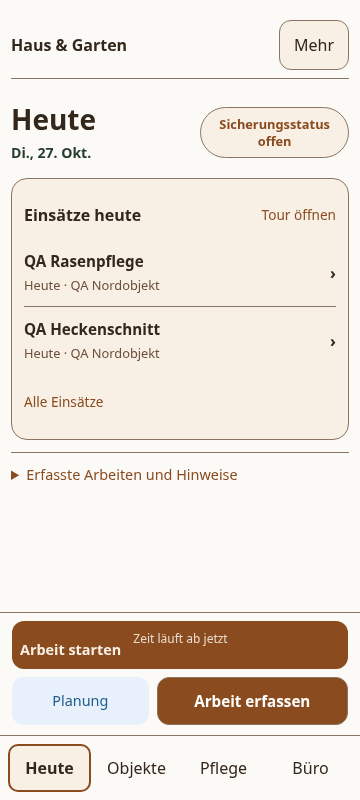
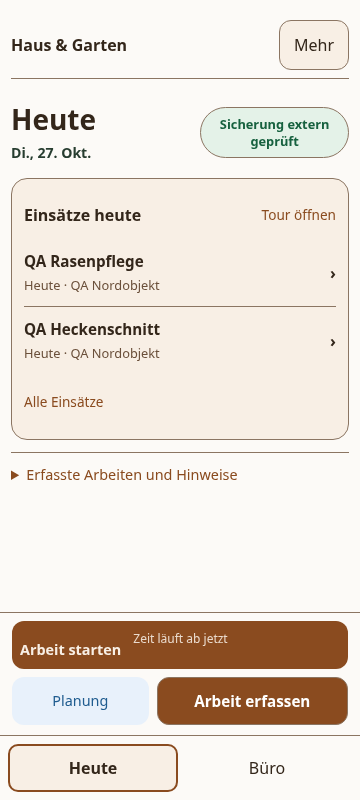
Move Objects and Care into More and preserve tested navigation paths

diff --git a/android/app/src/main/assets/revier-solo-ui.js b/android/app/src/main/assets/revier-solo-ui.js
@@ -2,7 +2,7 @@
 (()=>{
  'use strict';
  const $=id=>document.getElementById(id),E=value=>String(value==null?'':value).replace(/[&<>"']/g,c=>({'&':'&amp;','<':'&lt;','>':'&gt;','"':'&quot;',"'":'&#39;'}[c]));
- const ROOTS=['home','revier-properties','revier-care','revier-office'];
+ const ROOTS=['home','revier-office'];
  const DRAFT_KEY='hausgarten.revier.editor.v1';
  const statuses={planned:'Geplant',scheduled:'Geplant',due:'Fällig',open:'Offen',new:'Neu',inspection_planned:'Besichtigung geplant',offered:'Angebot vorhanden',declined:'Abgelehnt',closed:'Abgeschlossen',in_progress:'In Arbeit',completed:'Erledigt',cancelled:'Abgesagt',partial:'Teilweise erledigt',accepted:'Angenommen',rejected:'Abgelehnt',ready:'Einsatzbereit',maintenance:'Wartung',defective:'Defekt',active:'Aktiv',paused:'Pausiert',receive:'Zugang',consume:'Verbrauch',adjust:'Bestandskorrektur',reversal:'Gegenbuchung'};
  const detailIds={property:'revier-property-detail',inquiry:'revier-inquiry-detail',care:'revier-care-detail',visit:'revier-visit-detail',material:'revier-material-detail',equipment:'revier-equipment-detail'};
@@ -30,8 +30,8 @@
  function header(title){return '<div class="page-head">'+button('Zurück','data-revier-back aria-label="Eine Ansicht zurück"')+'<h2 tabindex="-1">'+E(title)+'</h2></div>';}
  function page(id,title){const node=document.createElement('section');node.id=id;node.className='page revier-page';node.setAttribute('aria-label',title);node.innerHTML=header(title)+'<p class="revier-state" role="status" aria-live="polite"></p><p class="revier-error" role="alert"></p><div class="revier-content"></div>';document.querySelector('main.app').append(node);return node;}
  function status(id,message,error=''){const page=$(id);if(!page)return;const state=page.querySelector('.revier-state'),alert=page.querySelector('.revier-error');if(state)state.textContent=message||'';if(alert)alert.textContent=error||'';}
- function rootFor(id){if(id==='home'||id==='work-entry'||id==='worklog-detail')return 'home';if(id==='revier-editor')return state.editor?.root||state.contextRoot;if(id==='customers'||id==='customer-edit'||id==='customer-profile-page'||id.startsWith('revier-property'))return 'revier-properties';if(id.startsWith('revier-care')||id.startsWith('revier-visit')||id==='revier-tour')return 'revier-care';return 'revier-office';}
- function navState(){document.querySelectorAll('.bottom .nav').forEach(b=>{const active=b.dataset.open===rootFor(currentPage);b.classList.toggle('active',active);if(active)b.setAttribute('aria-current','page');else b.removeAttribute('aria-current');});}
+ function rootFor(id){if(id==='home'||id==='work-entry'||id==='worklog-detail')return 'home';if(id==='revier-editor')return state.editor?.root||state.contextRoot;if(id==='revier-properties'||id==='customers'||id==='customer-edit'||id==='customer-profile-page'||id.startsWith('revier-property'))return 'revier-properties';if(id.startsWith('revier-care')||id.startsWith('revier-visit')||id==='revier-tour')return 'revier-care';return 'revier-office';}
+ function navState(){const root=currentPage==='more-page'?'more-page':rootFor(currentPage);document.querySelectorAll('.bottom .nav').forEach(b=>{const active=b.dataset.open===root;b.classList.toggle('active',active);if(active)b.setAttribute('aria-current','page');else b.removeAttribute('aria-current');});const menu=document.querySelector('.revier-globalbar [data-open=more-page]');if(menu){if(!ROOTS.includes(root))menu.setAttribute('aria-current','page');else menu.removeAttribute('aria-current');}}
  function navigate(id,remember=true){window.openPage(id,remember);}
  function focusHeading(id){requestAnimationFrame(()=>{$(id)?.querySelector('.page-head h2')?.focus({preventScroll:true});});}
  function detailList(entries){return '<dl class="revier-detail">'+entries.filter(([,value])=>value!==undefined&&value!==null&&String(value)!=='').map(([label,value])=>'<dt>'+E(label)+'</dt><dd>'+E(value)+'</dd>').join('')+'</dl>';}
@@ -209,7 +209,7 @@
  function renderRoute(){navState();const name=Object.keys(lists).find(key=>lists[key].page===currentPage);if(name){showList(name);return;}const kind=Object.keys(detailIds).find(key=>detailIds[key]===currentPage);if(kind){showDetail(kind);return;}if(currentPage==='revier-office')office();if(currentPage==='revier-tour')showTour();if(currentPage==='revier-search')searchPage();if(currentPage==='home')refreshToday();}
  function init(){
   if(!document.body.dataset.fieldReady||!window.OfferUI||!window.HGNavigation||!$('more-page')){setTimeout(init,80);return;}
-  document.body.classList.add('revier-solo');const nav=document.querySelector('.bottom-inner');nav.innerHTML=[['home','Heute'],['revier-properties','Objekte'],['revier-care','Pflege'],['revier-office','Büro']].map(([id,label])=>'<button type="button" class="nav" data-open="'+id+'">'+label+'</button>').join('');
+  document.body.classList.add('revier-solo');const nav=document.querySelector('.bottom-inner');nav.innerHTML=[['home','Heute'],['revier-office','Büro']].map(([id,label])=>'<button type="button" class="nav" data-open="'+id+'">'+label+'</button>').join('');
   const globalbar=document.createElement('div');globalbar.className='revier-globalbar';globalbar.innerHTML='<span>Haus & Garten</span>'+button('Mehr','data-open="more-page" aria-label="Mehr: alle Funktionen und Einstellungen"');document.querySelector('main.app').prepend(globalbar);
   const globalStatus=document.createElement('p');globalStatus.id='revier-global-status';globalStatus.className='sr-only';globalStatus.setAttribute('role','status');globalStatus.setAttribute('aria-live','polite');globalbar.after(globalStatus);
   for(const config of Object.values(lists))page(config.page,config.label);page('revier-office','Büro');page('revier-tour','Tagestour');page('revier-search','Lokale Suche');page('revier-editor','Eintrag');for(const [kind,id]of Object.entries(detailIds))page(id,{property:'Objektakte',inquiry:'Anfrage',care:'Pflegeplan',visit:'Einsatzdetails',material:'Material',equipment:'Gerät'}[kind]);

diff --git a/android/app/src/main/assets/workflow-ui.js b/android/app/src/main/assets/workflow-ui.js
@@ -36,13 +36,13 @@
    if(button.hasAttribute('data-global-search')){if(button.parentElement!==nav)nav.prepend(button);continue;}
    if(destination==='sync-page'){button.remove();continue;}
    if(button.hasAttribute('data-open-trash')){if(tools)tools.append(button);continue;}
-   const group=['planning-page','worklogs','orders','weeks'].includes(destination)?'work':['invoices','billing-page','offers'].includes(destination)?'billing':destination==='photos'||button.hasAttribute('data-open-garden-menu')?'media':'data';
+   const group=['revier-properties','revier-care','revier-tour','revier-materials','revier-equipment','revier-search','planning-page','worklogs','orders','weeks'].includes(destination)?'work':['revier-office','invoices','billing-page','offers'].includes(destination)?'billing':destination==='photos'||button.hasAttribute('data-open-garden-menu')?'media':'data';
    const target=nav.querySelector('[data-more-group="'+group+'"]');if(button.parentElement!==target)target.append(button);
    if(destination==='billing-page'){button.querySelector('strong').textContent='Abrechnung vorbereiten';button.querySelector('small').textContent='Arbeiten auswählen · Rechnung erstellen';}
   }
   // Components may finish at different times. Preserve the reviewed menu order
   // without replacing buttons/listeners or retriggering the observer forever.
-  const order=['settings-page','status-page','trash','planning-page','worklogs','orders','weeks','offers','billing-page','invoices','photos','garden'];
+  const order=['settings-page','status-page','trash','revier-properties','revier-care','planning-page','revier-tour','worklogs','orders','weeks','revier-materials','revier-equipment','revier-search','revier-office','offers','billing-page','invoices','photos','garden'];
   const rank=button=>{const key=button.dataset.open||button.dataset.moreDestination||(button.hasAttribute('data-open-garden-menu')?'garden':'');const i=order.indexOf(key);return i<0?order.length:i;};
   for(const group of nav.querySelectorAll('[data-more-group]')){
    const buttons=[...group.querySelectorAll(':scope>button')].sort((a,b)=>rank(a)-rank(b));let previous=group.querySelector('h3');

diff --git a/android/app/src/main/assets/revier-solo-ui.css b/android/app/src/main/assets/revier-solo-ui.css
@@ -19,7 +19,7 @@ body.revier-solo{
 .revier-solo .card{background:#F8EFE5;border-color:#8B7562}
 .revier-solo input,.revier-solo select,.revier-solo textarea{color:#33261A;background:#FCFAF7;border:1px solid #8B7562;max-width:100%;min-width:0}
 .revier-solo .bottom{background:#FCFAF7;border-color:#8B7562;padding:8px 8px max(8px,env(safe-area-inset-bottom));backdrop-filter:none}
-body.revier-solo .bottom .bottom-inner{display:grid;grid-template-columns:repeat(4,minmax(0,1fr));gap:4px}
+body.revier-solo .bottom .bottom-inner{display:grid;grid-template-columns:repeat(2,minmax(0,1fr));gap:4px}
 body.revier-solo .bottom .nav{font-size:1rem;line-height:1.3;min-height:56px;padding:8px 2px;color:#33261A;min-width:0;border:2px solid transparent}
 .revier-solo .bottom .nav.active{color:#33261A;background:#F8EFE5;border-color:#8A4B1F;font-weight:700}
 .revier-solo .actions,.revier-solo .today-action-dock,.revier-solo [id^=daily-tools-],.revier-solo .app-context-back{bottom:calc(var(--revier-nav-height) + 8px)}
@@ -96,3 +96,5 @@ body.revier-solo .bottom .nav{font-size:1rem;line-height:1.3;min-height:56px;pad
 .revier-solo p,.revier-solo label,.revier-solo summary{overflow-wrap:anywhere}
 /* Existing compact icon actions keep a full accessible touch area. */
 body.revier-solo button{min-height:48px!important;min-width:48px!important;white-space:normal!important;overflow-wrap:anywhere!important}
+
+.revier-globalbar [aria-current=page]{background:#F8EFE5;border-color:#8A4B1F;font-weight:700}

diff --git a/android/app/src/androidTest/java/at/hausgarten/service/ReleaseLifecycleProbe.java b/android/app/src/androidTest/java/at/hausgarten/service/ReleaseLifecycleProbe.java
@@ -79,7 +79,7 @@ final class ReleaseLifecycleProbe {
         String previousPlanningDraft=js(runner,view,"localStorage.getItem('hausgarten.planning.draft.v1')");
         String previousOtherDrafts=js(runner,view,"localStorage.getItem('hausgarten.planning.draft.v1.others')");
         try{
-        require("true".equals(js(runner,view,"(()=>{const nav=[...document.querySelectorAll('.bottom-inner [data-open]')].map(x=>x.dataset.open);return nav.join(',')==='home,revier-properties,revier-care,revier-office'&&!!document.querySelector('#today-action-dock [data-open=\"planning-page\"]')&&typeof crypto.randomUUID==='function'&&[1,2].at(-1)===2&&Object.hasOwn({a:1},'a')&&'a-a'.replaceAll('-','')==='aa';})()")));
+        require("true".equals(js(runner,view,"(()=>{const nav=[...document.querySelectorAll('.bottom-inner [data-open]')].map(x=>x.dataset.open);return nav.join(',')==='home,revier-office'&&!!document.querySelector('#more-page [data-open=\"revier-properties\"]')&&!!document.querySelector('#more-page [data-open=\"revier-care\"]')&&!!document.querySelector('#today-action-dock [data-open=\"planning-page\"]')&&typeof crypto.randomUUID==='function'&&[1,2].at(-1)===2&&Object.hasOwn({a:1},'a')&&'a-a'.replaceAll('-','')==='aa';})()")));
         require("true".equals(js(runner,view,"(()=>{openPage('worklogs');document.querySelector('[data-select-start]').click();document.querySelector('[data-select-visible]').click();const n=document.querySelectorAll('#worklog-list .worklog-selected').length;document.querySelector('[data-select-cancel]').click();return n>0&&document.querySelectorAll('#worklog-list .worklog-entry[aria-pressed]').length===0&&currentPage==='worklogs';})()")));
         require("true".equals(js(runner,view,"(()=>{openPage('more-page');document.querySelector('[data-open-garden-menu]').click();return document.querySelector('#gp-dialog').open;})()")));
         require("true".equals(js(runner,view,"(()=>{Gartenpirat.close();openPage('home');return !!document.querySelector('#workday-timer.has-active-session');})()")));

diff --git a/CODEX-STATUS.md b/CODEX-STATUS.md
@@ -20,15 +20,21 @@ bleibt erhalten. Tourbearbeitung und vollständige Besuchsliste bleiben über
 bestehende Ziele erreichbar. Weitere Termine bleiben sichtbar; eine zusätzliche
 leere Terminkarte entfällt nach erfolgreichem Lesen der Einsatzübersicht.
 
+Weitere Nutzerpräzisierung umgesetzt: unten nur Heute/Büro. Objekte und Pflege
+stehen im vorhandenen Mehr-Menü in Arbeit & Planung. Die Menü-Gruppierung kannte
+die Revier-Ziele bisher nicht und ordnete sie fälschlich Status & Einstellungen
+zu; diese Zuordnung ist korrigiert. Zurückwege und Fach-/Entwurfskontext bleiben
+erhalten, der Menübereich wird aktiv kenntlich gemacht.
+
 Kennzahlen, frühere Arbeiten und Sicherungsdetails sind aufklappbar. Laufende
 Arbeit und vorhandene Arbeitsaktionen bleiben direkt erreichbar. Lesefehler
 behalten die letzte Übersicht mit sichtbarem Hinweis und Wiederholung; keine
 Schreiboperation beim Aufruf der Übersicht. Fachregeln, Timer, Entwürfe, Backup,
 Rechnungsautorität und Geschäftsdaten werden durch diese Darstellung nicht geändert.
 
-17 Revier-UI- und41 Übersichts-/Zugänglichkeitsprüfungen PASS; zusätzlich der
-bestehende Sicherungszugang mit Tastatur-/Größen-/Fehlerfällen PASS. Quelle2329
-Dateien und gesamter Worktree6008Dateien einschließlich ignorierter Dateien
+18 Revier-UI- und41 Übersichts-/Zugänglichkeitsprüfungen PASS; zusätzlich der
+bestehende Sicherungszugang mit Tastatur-/Größen-/Fehlerfällen PASS. Quelle2333
+Dateien und gesamter Worktree6013Dateien einschließlich ignorierter Dateien
 bestehen die Privacy-Gates. Keine neue native oder physische Abnahme.
 Prüfbeleg: `docs/verification/today-overview-2026-10-27.json`.
 Vorschau ausschließlich synthetische Browserdaten. Keine APK gebaut, keine
@@ -36,6 +42,29 @@ Installation oder produktive Geräteprüfung. Der unveränderte106-Release-Tag
 bleibt die letzte geprüfte Paketquelle; diese Quellüberarbeitung ist kein
 neuer freigegebener Build. Ruckelige Übergänge und zunächst alte Startoberfläche
 sind noch keine nachgewiesen behobenen Gerätefehler.
+
+### Bedienungsprüfung und Bildvorschau
+
+Quell-/Browserprüfung mit synthetischen Bridges: Arbeit erfassen5 sichtbare
+Hauptfelder, Termin planen4, Einsatz bearbeiten10. Die Arbeitsmaske hat bereits
+Textvorschläge aus bis zu drei früheren Tätigkeiten; die Terminplanung hat
+Dauerknöpfe1h/2h/halber Tag. Diese sind keine neu eingebauten Hilfen. Datum/Zeit
+verwenden vorhandene native Eingabetypen; ihre praktische Picker-Bedienung auf
+dem Pixel ist hier nicht geprüft. Während dieser drei Maskenaufrufe keine
+Revier-Schreibvorgänge oder Scriptfehler.
+
+Priorisierte offene Vereinfachungen: Text gezielt übernehmen statt eine ganze
+Arbeit mit Stunden duplizieren; Datum-/Uhrzeitwahl über die Masken vereinheitlichen;
+Einsatzbearbeitung auf Kerneingaben konzentrieren. Exakte freie Eingaben,
+Änderungsgrund, Gerätemängel, Drafts und ausdrückliches Speichern bleiben notwendig.
+Weitere Formularänderungen auf Nutzerwunsch zunächst zurückgestellt: zuerst
+Bilder der tatsächlich gerenderten neuen Heute-/Menüansicht liefern.
+
+Bilder mit Testdaten: `docs/verification/today-overview-360.png`,
+`more-menu-360.png` und `more-menu-sections-360.png` im selben Ordner.
+Elf betroffene Browser-Prüfgruppen (162 Einzelprüfungen) PASS; nach Menüzuordnung
+Revier-, Menü-/Kalender- und einfache Designregression erneut PASS. Native
+Navigationsfixture angepasst, aber keine neue APK oder native Abnahme.
 
 ## Zurückgestellte Ablagebereinigung
 

diff --git a/CODEX-AUFTRAG-GARTENPIRAT.md b/CODEX-AUFTRAG-GARTENPIRAT.md
@@ -8,6 +8,30 @@ müssen sichtbar bleiben. Emulator, ADB-Protokoll, GitHub-Konsolidierung und wei
 Leistungsanalyse sind vorerst zurückgestellt. Bereits gemeldete träge Übergänge
 und zunächst alte Startoberfläche sind damit noch nicht als behoben erklärt.
 
+Weitere Nutzerpräzisierung: „Objekte“ und „Pflege“ aus der unteren Hauptnavigation
+nehmen und im bestehenden Mehr-Menü führen. Unten bleiben Heute und Büro. Vor
+Änderung: sichtbare Wurzeln, aktive Menüanzeige, Rückweg aus Liste/Detail/Entwurf,
+vorhandene Direktziele sowie Browser-/native Navigationsfixtures gegeneinander
+prüfen. ROOTS/Navdarstellung und Spaltenzahl gemeinsam ändern; Fach-/Editor-Kontext
+nicht in einen anderen Fachbereich umdeuten. Mehr → Bereich → Detail → Zurück
+muss wieder über den Bereich ins Menü führen; laufende Sitzung und Entwürfe
+bleiben erhalten. Bereits vorhandene Menüeinträge verwenden, keine zweite Funktion.
+Die vorhandene Gruppenzuordnung in `workflow-ui.js` muss die Revier-Ziele kennen:
+Objekte/Pflege/Tour/Material/Geräte/Suche zu Arbeit & Planung, Büro zu Belegen;
+keinen Fallback nach Status & Einstellungen als fachliche Zuordnung stehen lassen.
+Zuerst Bilder der aktuellen Heute-/Menüansichten mit synthetischen Daten liefern;
+weitere Formularänderungen dafür zurückstellen.
+
+Weitere Nutzersteuerung: Funktionsumfang erhalten, Bedienung massiv vereinfachen.
+App soweit ohne produktive Daten möglich im Code und mit synthetischen Masken
+prüfen: vorbereitete Texte, einfache Datums-/Uhrzeitwahl, weniger Eingaben und
+Rückfragen. Vorhandene Vorschläge und Dauerknöpfe zuerst erfassen; keine zweite
+Vorlagen-Datenhaltung oder unbewiesene Funktionslücke erfinden. Datums-/Zeithilfen
+dürfen Eingaben nur bewusst setzen, nie tatsächliche Zeiten runden oder fachliche
+Bestätigung, Änderungsgrund, Commit-ID und Rechnungs-/Backupgates überspringen.
+Der derzeitige Zusatzauftrag umfasst die konkrete Bedienungsprüfung und
+Vereinfachungspunkte; neue Eingabehilfen sind dadurch noch nicht als eingebaut erklärt.
+
 Minimaler Änderungsplan vor Umsetzung:
 
 - `android/app/src/main/assets/revier-solo-ui.js`, `refreshToday`: statt vollständiger
